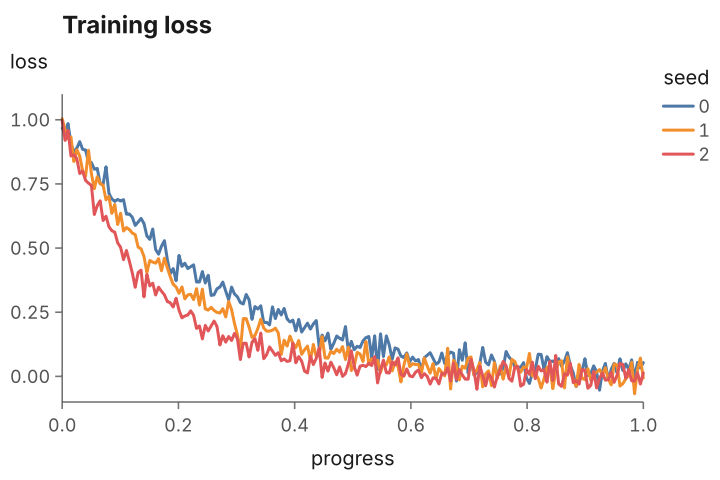
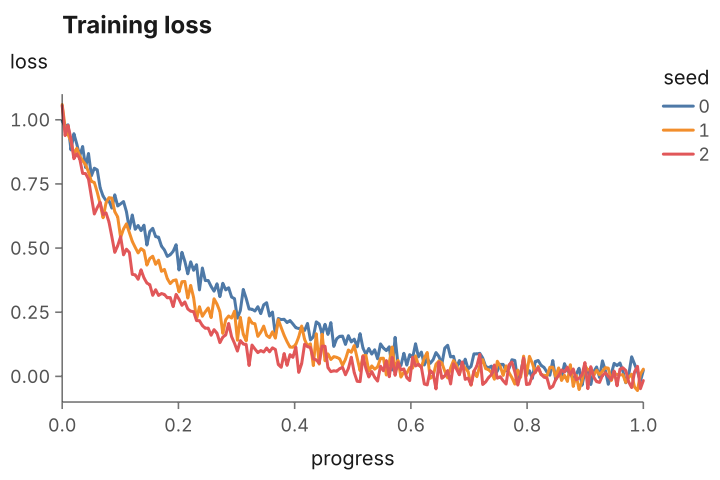
docs(hugin): Port the examples and guide to the new nx
The samplers of the new nx take their key as ~key, and Nx.take its
positions without a label. The examples that draw random data render
other draws for the same seeds, so their committed images are
refreshed; the examples without random data render the same bytes as
before. The README says that data is reduced with nx before it is
read, now that a figure's tensors are host values.

Changed region(s): [[0.0611, 0.2188, 0.9167, 0.8125]]

diff --git a/packages/hugin/doc/02-marks.md b/packages/hugin/doc/02-marks.md
@@ -40,12 +40,12 @@ let () =
   let n = 200 in
   let keys = Nx.Rng.split ~n:3 (key 1) in
   let group = Nx.cast Nx.int32 (Nx.div_s (Nx.arange Nx.int32 0 n 1) 100l) in
-  let px = Nx.Rng.normal keys.(0) Nx.float64 [| n |] in
-  let py = Nx.add (Nx.mul_s (Nx.cast Nx.float64 group) 2.) (Nx.Rng.normal keys.(1) Nx.float64 [| n |]) in
+  let px = Nx.Rng.normal ~key:keys.(0) Nx.float64 [| n |] in
+  let py = Nx.add (Nx.mul_s (Nx.cast Nx.float64 group) 2.) (Nx.Rng.normal ~key:keys.(1) Nx.float64 [| n |]) in
   let labels = [| "control"; "treated" |] in
   dot ~x:(num px) ~y:(num py)
     ~fill:(cat ~title:"group" ~labels group)
-    ~size:(num ~title:"weight" (Nx.Rng.uniform keys.(2) Nx.float64 [| n |]))
+    ~size:(num ~title:"weight" (Nx.Rng.uniform ~key:keys.(2) Nx.float64 [| n |]))
     ()
   |> save "dots.png"
 ```
@@ -103,7 +103,7 @@ baseline is zero; with it, the area is a band between two curves:
 let () =
   let runs =
     Nx.add (Nx.reshape [| 1; 11 |] (Nx.sin t))
-      (Nx.mul_s (Nx.Rng.normal (key 2) Nx.float64 [| 8; 11 |]) 0.2)
+      (Nx.mul_s (Nx.Rng.normal ~key:(key 2) Nx.float64 [| 8; 11 |]) 0.2)
   in
   let lo = Nx.min ~axes:[ 0 ] runs and hi = Nx.max ~axes:[ 0 ] runs in
   layer
@@ -141,7 +141,7 @@ through `~fill`, and a continuous colour scale yields a colour bar:
 
 ```ocaml
 let () =
-  let z = Nx.Rng.normal (key 3) Nx.float64 [| 12; 16 |] in
+  let z = Nx.Rng.normal ~key:(key 3) Nx.float64 [| 12; 16 |] in
   rect ~x:(dim 1) ~y:(dim 0) ~fill:(num ~title:"z" z) ()
   |> save "heatmap.png"
 ```
@@ -152,7 +152,7 @@ edge:
 
 ```ocaml
 let () =
-  let h = Stats.histogram ~bins:30 (Nx.Rng.normal (key 4) Nx.float64 [| 2_000 |]) in
+  let h = Stats.histogram ~bins:30 (Nx.Rng.normal ~key:(key 4) Nx.float64 [| 2_000 |]) in
   rect ~x:(num h.x) ~x2:(num h.x2) ~y:(num ~title:"count" h.count) ()
   |> save "histogram.png"
 ```
@@ -213,8 +213,8 @@ domains the data fits:
 
 ```ocaml
 let () =
-  let xs = Nx.Rng.uniform (key 6) Nx.float64 [| 50 |] in
-  let ys = Nx.add (Nx.mul_s xs 2.) (Nx.mul_s (Nx.Rng.normal (key 7) Nx.float64 [| 50 |]) 0.2) in
+  let xs = Nx.Rng.uniform ~key:(key 6) Nx.float64 [| 50 |] in
+  let ys = Nx.add (Nx.mul_s xs 2.) (Nx.mul_s (Nx.Rng.normal ~key:(key 7) Nx.float64 [| 50 |]) 0.2) in
   layer
     [
       dot ~x:(num xs) ~y:(num ys) ();
@@ -256,7 +256,7 @@ several images, which the facet channels put in panels of their own:
 
 ```ocaml
 let () =
-  let batch = Nx.Rng.uniform (key 5) Nx.float32 [| 6; 16; 16; 3 |] in
+  let batch = Nx.Rng.uniform ~key:(key 5) Nx.float32 [| 6; 16; 16; 3 |] in
   image ~fx:(dim ~scale:(Scale.band ~wrap:3 ()) 0) batch
   |> save "images.png"
 ```

diff --git a/packages/hugin/README.md b/packages/hugin/README.md
@@ -18,8 +18,8 @@ facets, and render to PNG, SVG and PDF with a bundled font.
 - Facets, grids with aligned data areas, spans, titles and fixed aspect ratios
 - Sequential, diverging and qualitative colour schemes, and colours mixed in
   Oklab
-- Large data reduced where it lives: dense lines, scatters and images draw
-  only what the output's pixels can show
+- Large data reduced with nx before it is read: dense lines, scatters and
+  images draw only what the output's pixels can show
 - PNG, SVG and PDF written in pure OCaml, the same bytes on every run
 - Display in Quill notebooks through `Hugin.pp`
 

diff --git a/packages/hugin/doc/index.md b/packages/hugin/doc/index.md
@@ -17,7 +17,7 @@ let steps = Nx.linspace Nx.float64 0. 1. 200
 
 let losses =
   let rates = Nx.create Nx.float64 [| 5; 1 |] [| 2.; 2.5; 3.; 3.5; 4. |] in
-  let noise = Nx.Rng.normal (Nx.Rng.key 0) Nx.float64 [| 5; 200 |] in
+  let noise = Nx.Rng.normal ~key:(Nx.Rng.key 0) Nx.float64 [| 5; 200 |] in
   Nx.add (Nx.exp (Nx.neg (Nx.mul rates steps))) (Nx.mul_s noise 0.01)
 
 let () =

diff --git a/packages/hugin/doc/05-rendering-and-extending.md b/packages/hugin/doc/05-rendering-and-extending.md
@@ -92,7 +92,7 @@ figure that reads it:
 let smoothing = View.number "smoothing" ~init:0.5
 
 let noisy =
-  Nx.mul loss (Nx.exp (Nx.mul_s (Nx.Rng.normal (Nx.Rng.key 0) Nx.float64 [| 101 |]) 0.2))
+  Nx.mul loss (Nx.exp (Nx.mul_s (Nx.Rng.normal ~key:(Nx.Rng.key 0) Nx.float64 [| 101 |]) 0.2))
 
 let live =
   bind smoothing (fun alpha -> line ~y:(num (Nx.ewma ~alpha noisy)) ())

diff --git a/packages/hugin/doc/03-scales-colour-and-guides.md b/packages/hugin/doc/03-scales-colour-and-guides.md
@@ -142,7 +142,7 @@ palettes (`tableau10`, `okabe_ito`, `set2`, ...):
 
 ```ocaml
 let () =
-  let z = Nx.Rng.normal (Nx.Rng.key 1) Nx.float64 [| 10; 10 |] in
+  let z = Nx.Rng.normal ~key:(Nx.Rng.key 1) Nx.float64 [| 10; 10 |] in
   rect ~x:(dim 1) ~y:(dim 0)
     ~fill:(num ~scale:(Scale.linear ~domain:(-3., 3.) ~scheme:Scheme.rdbu ()) z)
     ()
